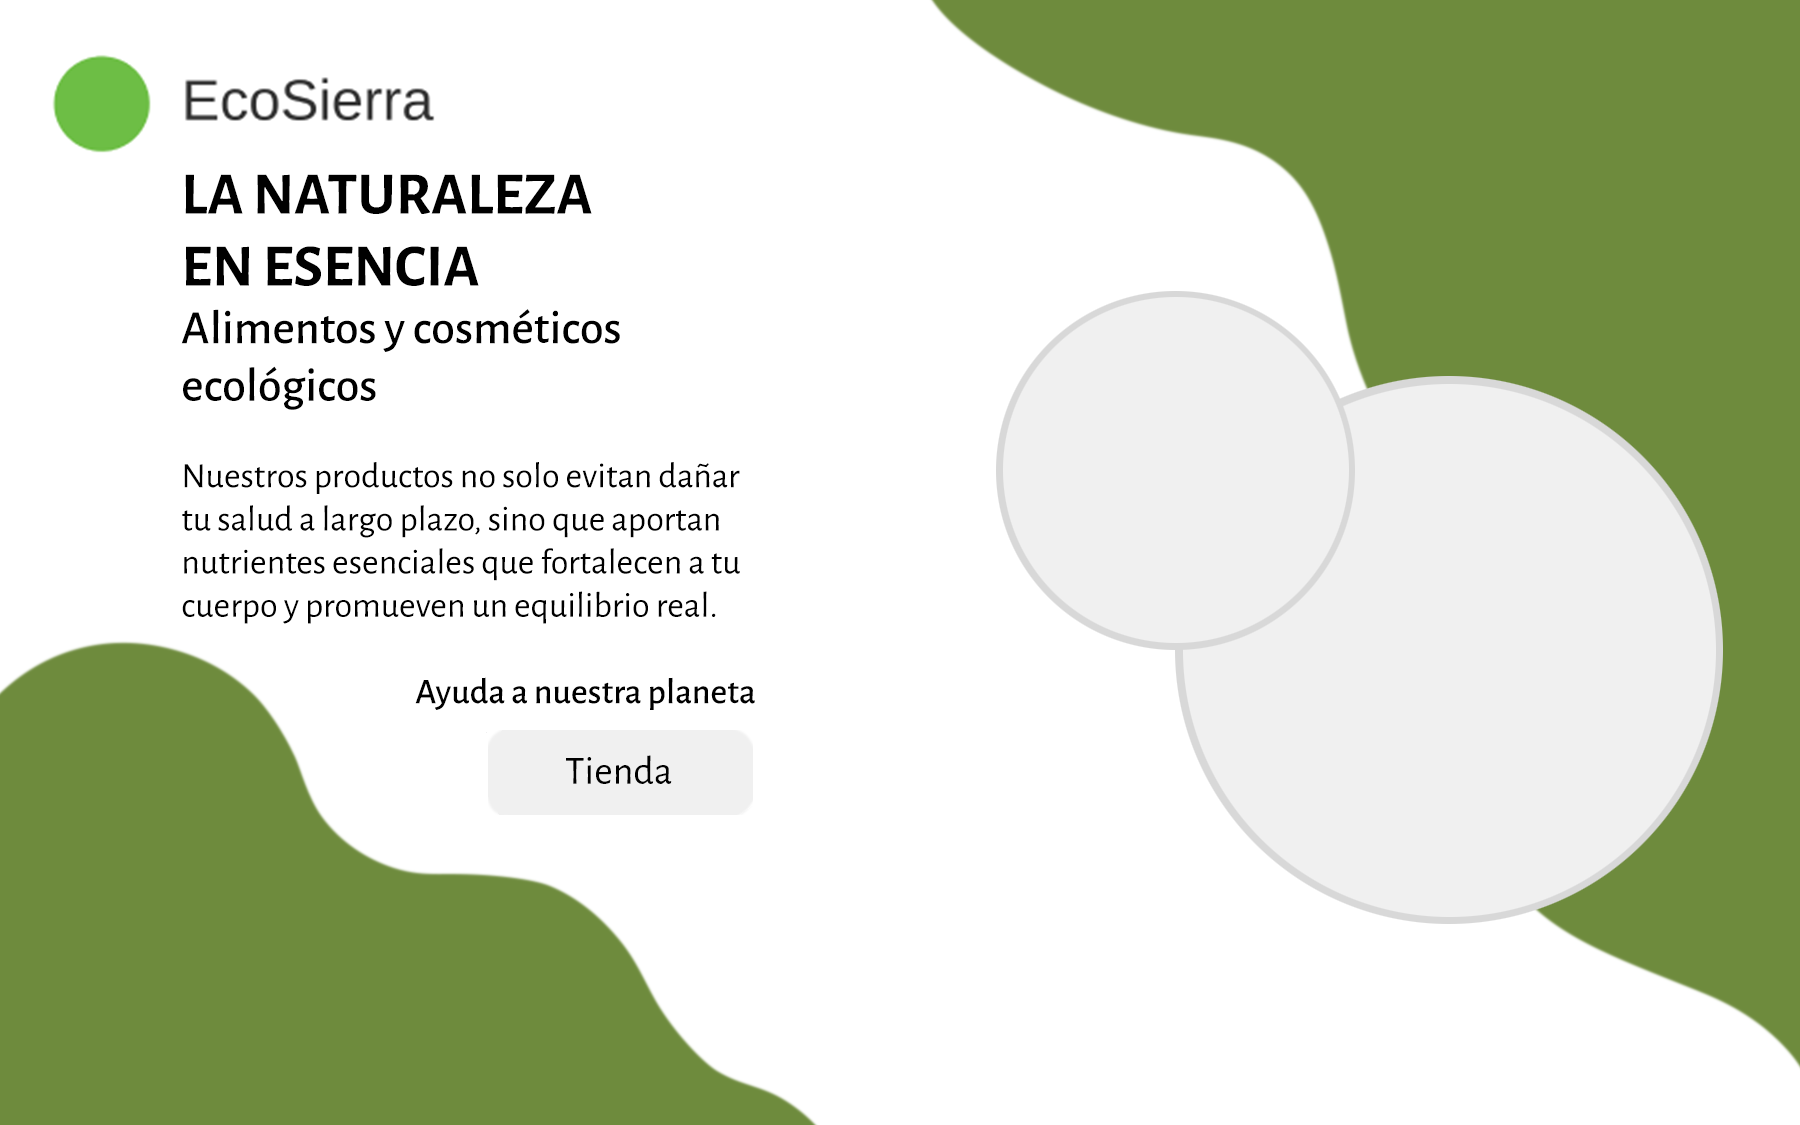
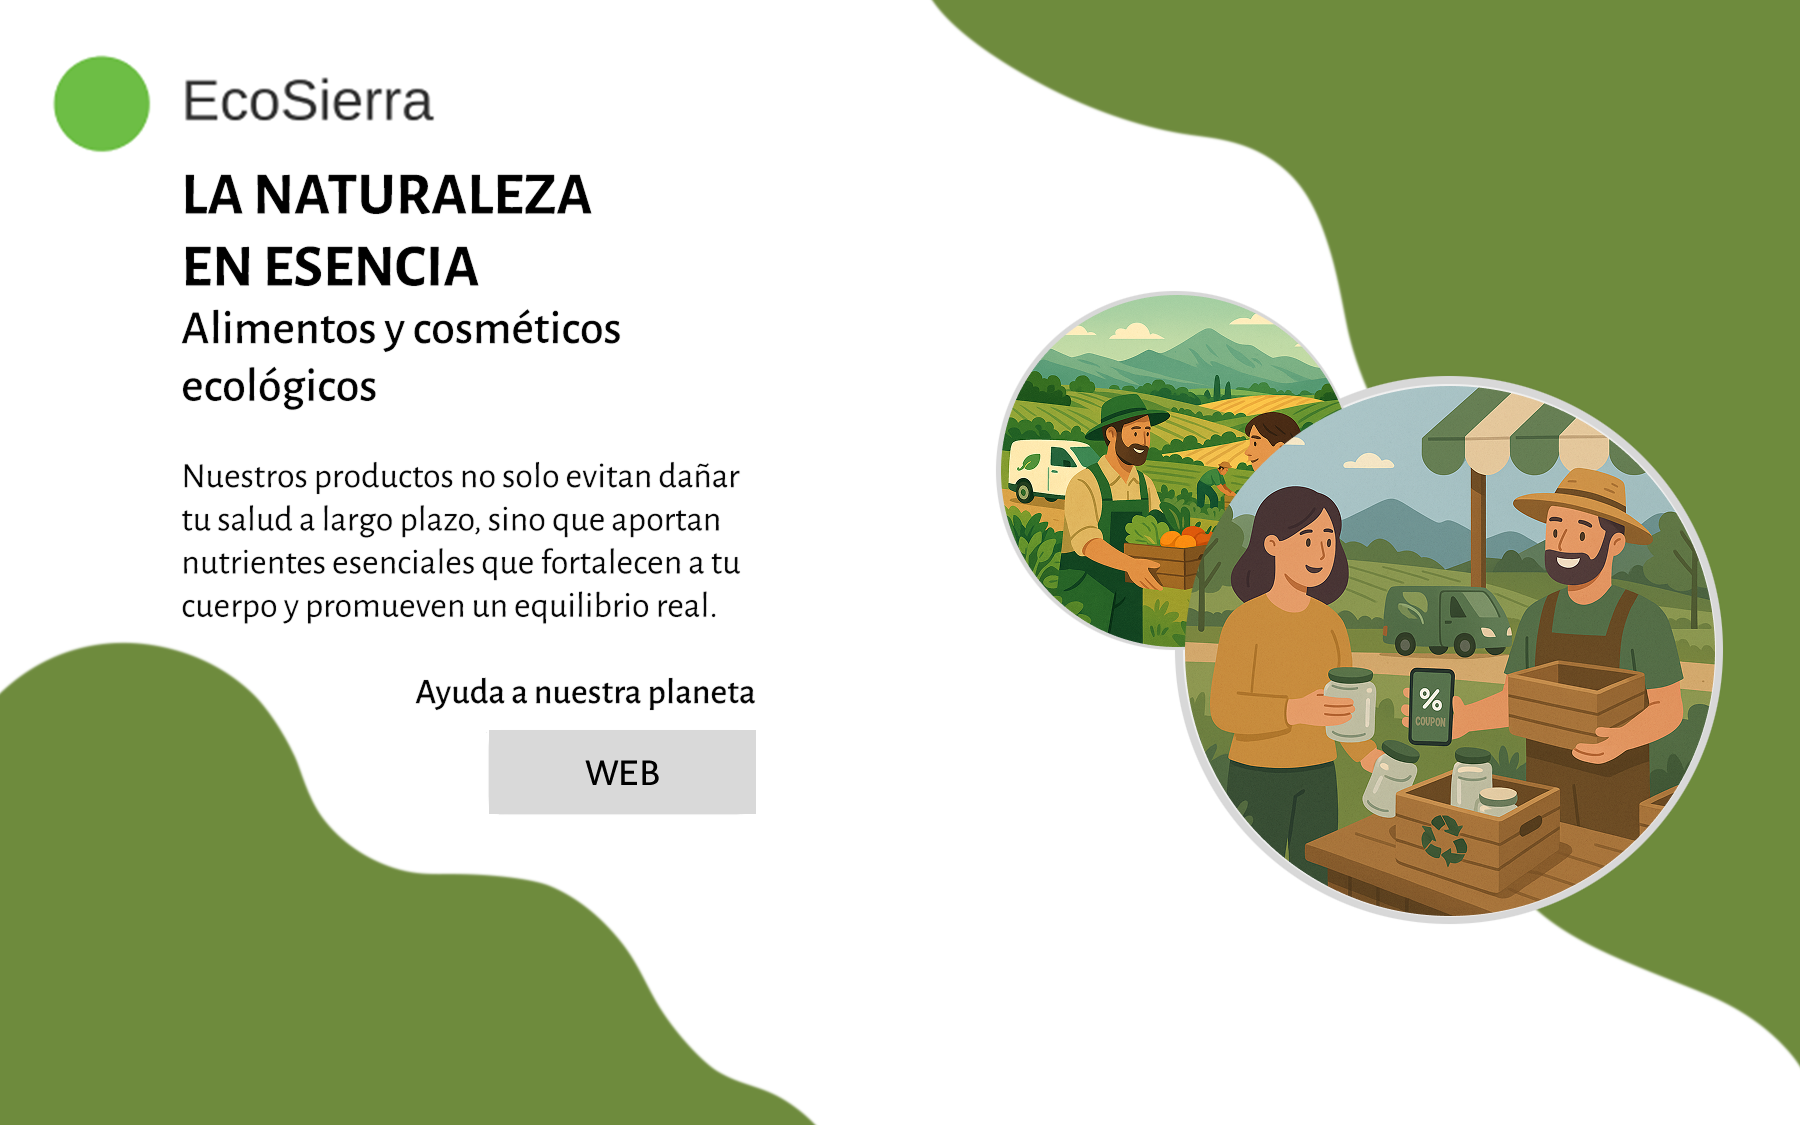
P3 Terminada

Changed region(s): [[0.5289, 0.2489, 0.9644, 0.84], [0.3111, 0.6533, 0.3733, 0.7156]]

diff --git a/P3/readme.md b/P3/readme.md
@@ -1,32 +1,3 @@
-# DIU - Practica 3, entregables
-
-- Moodboard (diseño visual + logotipo)   
-- Landing Page
-- Mockup: LAYOUT HI-FI
-- Publicación del Case Study
-
-## Conclusiones
-
->>>> Este fichero se debe editar para que cada evidencia quede enlazada con el recurso subido a la carpeta de la practica. Se pide más detalle técnico en las descripciones de lo que sería el README principal del repositorio y que corresponde a la descripcion del Case Study.
->>>> Termine con la seccion de Conclusiones para aportar una valoración final del equipo sobre la propia realización de la práctica
-
-# POR HACER:
-
-(Todo con animaciones y adaptado a móvil usando materialUI plugin)
-
-- ONBOARDING - Javi
-- NAVBAR - Faltan animaciones - Javi
-- HERO IMAGE + CAROUSEL Falta animación carrousel - Javi
-- SEARCH - Faltan animaciones (tienda y productos) - Javi
-- WIZARDS (explain process) - Javi
-- ARTICLE LIST - Faltan animaciones scroll - Javi
-- ITEM DETAILS + ACTIONS - Faltan animaciones - Javi
-- FORM INPUT (Contacto) - Falta - Carmen
-- SHOPPING CART - Falta - Carmen
-- ABOUT (Sobre Nosotros) - Falta - Carmen
-- RESPONSIVE AL FINAL
-- Si da tiempo hacer BLOG
-
 # DIU - Practica 3
 
 Grupo: DIU1.JavierCarmen.  Curso: 2024/25
@@ -85,6 +56,8 @@ Hemos querido elegir un logotipo simple y directo, compuesto con el color verde 
 | Selección de idioma| <img src="https://unpkg.com/feather-icons/dist/icons/globe.svg" width="24" height="24" />    |
 | Buscar             | <img src="search.png" width="24" height="24" />   |
 | Teléfono           | <img src="https://unpkg.com/feather-icons/dist/icons/phone.svg" width="24" height="24" />    |
+| Correo electrónico | <img src="https://unpkg.com/feather-icons/dist/icons/mail.svg" width="24" height="24" />    |
+| Ubicación          | <img src="https://unpkg.com/feather-icons/dist/icons/map-pin.svg" width="24" height="24" />    |
 
 
 ### Iconos de filtro y ordenación (columna lateral)
@@ -129,5 +102,41 @@ Hemos querido elegir un logotipo simple y directo, compuesto con el color verde 
 
 # 2. LANDING PAGE
 
-Se ha diseñado la siguiente página promocional, donde los circulos son las ubicaciones en las que se encontraría diferentes imagenes representativas de nuestra empresa, como nuestros productos o los lugares de origen de dichos productos.
-![Imagen Inspiradora 3](LANDING_PAGE.png)
+Se ha diseñado la siguiente página promocional, conteniendo el logotipo, una breve descripción de la empresa y dos imágenes inspiradoras que expresan la filosofía y valores de la marca. Finalmente se presenta un botón de llamada a la acción que invita al usuario a ayudar a nuestro planeta, con el enlace a la web de la empresa.
+
+![Landing Page](LANDING_PAGE.png)
+
+# 3. MOCKUP: LAYOUT HI-FI
+
+## Patrones de diseño
+
+Se ha realizado un mockup con navegabilidad simulada mediante animaciones de la aplicación para web [Mockup en Figma](https://www.figma.com/design/NFUHxHGGa9HnGKbSnbm49o/Protocolo-TOTAL-RP?m=auto&t=lJTwSbpXoMqKUMaR-6), utilizando los siguientes patrones de diseño:
+
+### Hero Image + Carousel (Página de inicio)
+![Inicio](INICIO.png)
+
+### Menú hamburguesa (SubMenú)
+![Menu](HAMBURGUESA.png)
+
+### Article List (Tienda)
+![Tienda](TIENDA.png)
+
+### Item Details (Detalles del producto)
+![Producto](PRODUCTO.png)
+
+### Form Input (Contacto)
+![Contacto](CONTACTO.png)
+
+### Shopping Cart (Carrito de compra)
+![Carrito](CARRITO.png)
+
+### About (Sobre nosotros)
+![Sobre nosotros](SOBRENOSOTROS.png)
+
+## CONCLUSIONES
+
+Hemos podido aplicar los conocimientos adquiridos en clase a raiz de las actividades del moodboard y el onboarding para un caso práctico real. Hemos utilizado Figma solamente para la navegabilidad, haciendo el moodboard a raiz de ideas propias de lo que deberían ser un logotipo, paleta de colores e iconos. 
+
+Los patrones de diseño utilizados, aunque restringidos a los necesarios para la práctica, nos han permitido explorar la versatilidad de la aplicación y su potencial para una experiencia de usuario fluida y atractiva.
+
+En general la práctica, aunque ha sido laboriosa y tediosa por el desconocimiento de ciertas herramientas en Figma, ha materializado las ideas que teníamos en mente y nos ha permitido ver cómo se pueden aplicar los conceptos de diseño a un caso práctico real.
